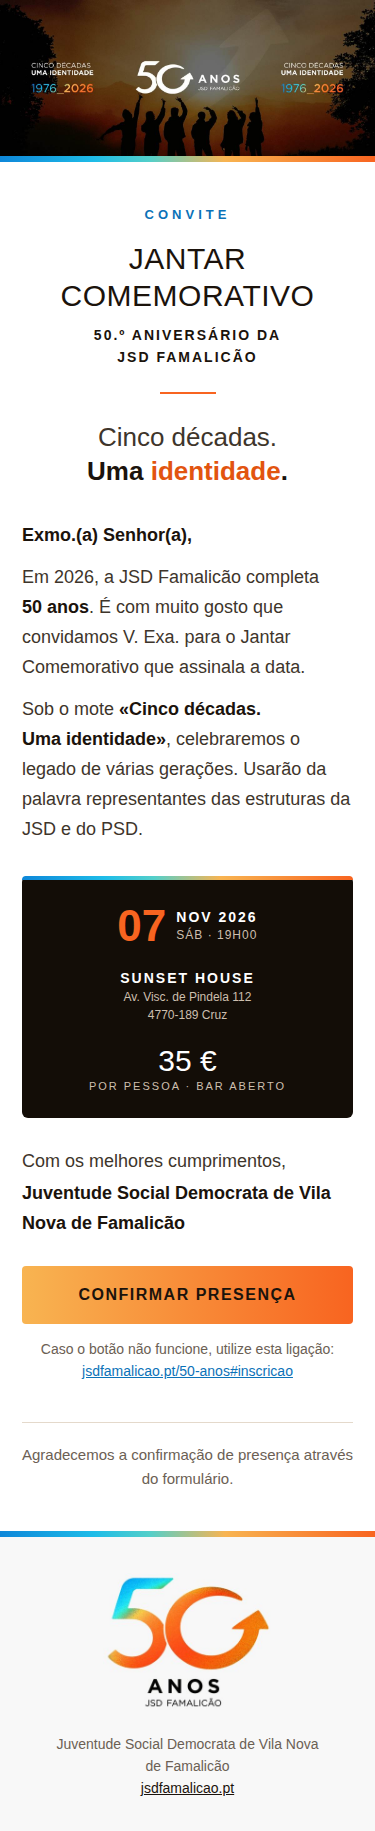
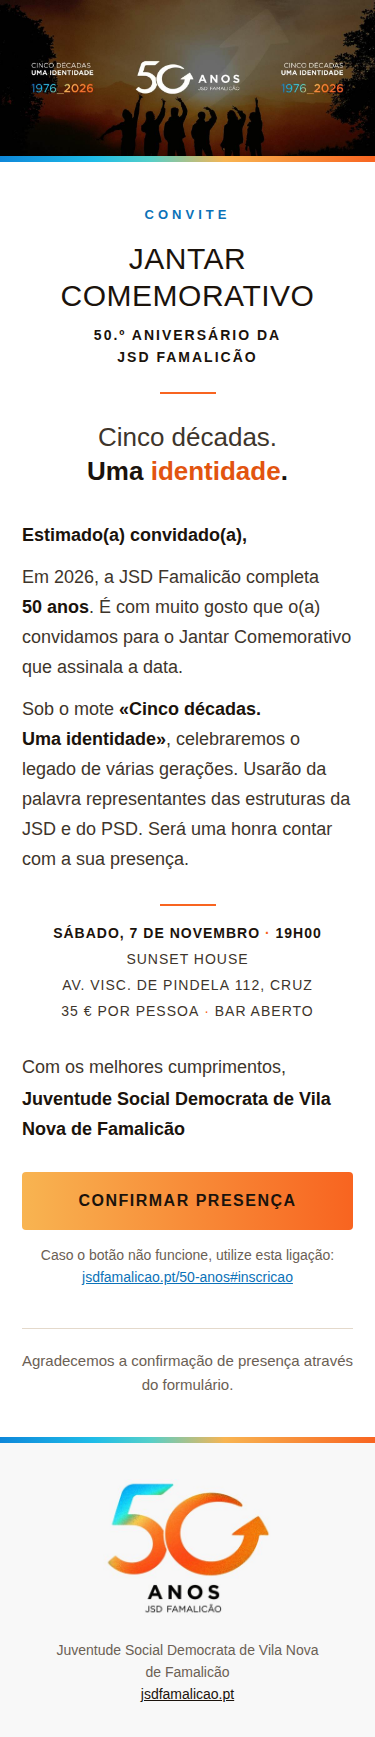
Email: v3/v4 com dados em linhas tipográficas e institucional menos formal
Claude-Session: https://claude.ai/code/session_015mwyiP4waEoG1anDPcCGSk

diff --git a/email/jsd-50-anos/v4-convite-institucional.html b/email/jsd-50-anos/v4-convite-institucional.html
@@ -26,6 +26,7 @@
       .btn-tabela  { width:100% !important; }
       .btn         { display:block !important; padding:19px 12px !important; font-size:16px !important; }
       .t-lead      { font-size:26px !important; line-height:34px !important; }
+      .t-dados-v   { font-size:14px !important; line-height:26px !important; letter-spacing:1px !important; }
     }
   </style>
 </head>
@@ -36,7 +37,7 @@
 <body style="margin:0; padding:0; background-color:#FFFFFF;">
 
   <div style="display:none; max-height:0; overflow:hidden; opacity:0; font-size:1px; line-height:1px; color:#FFFFFF;">
-    Cinco décadas. Uma identidade. A JSD Famalicão convida V. Exa. para o Jantar Comemorativo do seu 50.º Aniversário.
+    Cinco décadas. Uma identidade. A JSD Famalicão convida-o(a) para o Jantar Comemorativo do seu 50.º Aniversário.
     &#8199;&#847;&#8199;&#847;&#8199;&#847;&#8199;&#847;&#8199;&#847;&#8199;&#847;&#8199;&#847;&#8199;&#847;
   </div>
 
@@ -79,44 +80,23 @@
             <td class="px t-lead" align="center" style="padding:26px 24px 0px 24px; font-family:Montserrat,'Helvetica Neue',Helvetica,Arial,sans-serif; font-size:24px; line-height:32px; font-weight:300; color:#3E352B; text-align:center;">Cinco décadas.<br><strong style="font-weight:800; color:#1B130C;">Uma <span style="color:#E2540F;">identidade</span>.</strong></td>
           </tr>
           <tr>
-            <td class="px t-corpo" align="left" style="padding:32px 24px 0px 24px; font-family:Montserrat,'Helvetica Neue',Helvetica,Arial,sans-serif; font-size:16px; line-height:27px; font-weight:700; color:#1B130C; text-align:left;">Exmo.(a) Senhor(a),</td>
+            <td class="px t-corpo" align="left" style="padding:32px 24px 0px 24px; font-family:Montserrat,'Helvetica Neue',Helvetica,Arial,sans-serif; font-size:16px; line-height:27px; font-weight:700; color:#1B130C; text-align:left;">Estimado(a) convidado(a),</td>
           </tr>
           <tr>
-            <td class="px t-corpo" align="left" style="padding:12px 24px 0px 24px; font-family:Montserrat,'Helvetica Neue',Helvetica,Arial,sans-serif; font-size:16px; line-height:27px; color:#3E352B; text-align:left;">Em 2026, a JSD Famalicão completa <strong style="color:#1B130C;">50&nbsp;anos</strong>. É com muito gosto que convidamos V.&nbsp;Exa. para o Jantar Comemorativo que assinala a data.</td>
+            <td class="px t-corpo" align="left" style="padding:12px 24px 0px 24px; font-family:Montserrat,'Helvetica Neue',Helvetica,Arial,sans-serif; font-size:16px; line-height:27px; color:#3E352B; text-align:left;">Em 2026, a JSD Famalicão completa <strong style="color:#1B130C;">50&nbsp;anos</strong>. É com muito gosto que o(a) convidamos para o Jantar Comemorativo que assinala a data.</td>
           </tr>
           <tr>
-            <td class="px t-corpo" align="left" style="padding:12px 24px 0px 24px; font-family:Montserrat,'Helvetica Neue',Helvetica,Arial,sans-serif; font-size:16px; line-height:27px; color:#3E352B; text-align:left;">Sob o mote <strong style="color:#1B130C;">«Cinco décadas. Uma&nbsp;identidade»</strong>, celebraremos o legado de várias gerações. Usarão da palavra representantes das estruturas da JSD e do PSD.</td>
+            <td class="px t-corpo" align="left" style="padding:12px 24px 0px 24px; font-family:Montserrat,'Helvetica Neue',Helvetica,Arial,sans-serif; font-size:16px; line-height:27px; color:#3E352B; text-align:left;">Sob o mote <strong style="color:#1B130C;">«Cinco décadas. Uma&nbsp;identidade»</strong>, celebraremos o legado de várias gerações. Usarão da palavra representantes das estruturas da JSD e do PSD. Será uma honra contar com a sua presença.</td>
           </tr>
           <tr>
-            <td class="px" style="padding:32px 24px 0 24px;">
-              <table role="presentation" width="100%" cellpadding="0" cellspacing="0" border="0" bgcolor="#130D07" style="background-color:#130D07; border-radius:6px;">
-                <tr><td height="4" bgcolor="#F86420" style="height:4px; font-size:0; line-height:0; background-color:#F86420; background-image:linear-gradient(90deg,#0E87D9 0%,#1EBCE8 25%,#54CFC9 40%,#F8B451 60%,#F86420 100%); border-radius:6px 6px 0 0;">&nbsp;</td></tr>
-                <tr>
-                  <td align="center" style="padding:14px 8px; font-size:0; line-height:0; text-align:center;">
-                <div style="display:inline-block; width:100%; max-width:230px; vertical-align:middle;">
-                  <table role="presentation" width="100%" cellpadding="0" cellspacing="0" border="0"><tr>
-                    <td align="center" style="padding:10px 8px; font-family:Montserrat,'Helvetica Neue',Helvetica,Arial,sans-serif; text-align:center;"><table role="presentation" align="center" cellpadding="0" cellspacing="0" border="0"><tr>
-                      <td style="padding-right:10px; font-family:Montserrat,'Helvetica Neue',Helvetica,Arial,sans-serif; font-size:44px; line-height:44px; font-weight:800; color:#F86420;">07</td>
-                      <td align="left" style="font-family:Montserrat,'Helvetica Neue',Helvetica,Arial,sans-serif; text-align:left;">
-                        <div style="font-size:14px; line-height:18px; font-weight:800; letter-spacing:2px; color:#FFFFFF;">NOV 2026</div>
-                        <div style="font-size:12px; line-height:18px; letter-spacing:1px; color:#CDBFAE;">SÁB · 19H00</div>
-                      </td></tr></table></td>
-                  </tr></table>
-                </div>
-                <div style="display:inline-block; width:100%; max-width:230px; vertical-align:middle;">
-                  <table role="presentation" width="100%" cellpadding="0" cellspacing="0" border="0"><tr>
-                    <td align="center" style="padding:10px 8px; font-family:Montserrat,'Helvetica Neue',Helvetica,Arial,sans-serif; text-align:center;"><div style="font-size:14px; line-height:20px; font-weight:800; letter-spacing:2px; color:#FFFFFF;">SUNSET HOUSE</div><a href="https://www.google.com/maps/search/?api=1&query=Av.+Visconde+de+Pindela+112,+4770-189+Cruz" style="font-size:12px; line-height:18px; color:#CDBFAE; text-decoration:none;">Av. Visc. de Pindela 112<br>4770&#8209;189&nbsp;Cruz</a></td>
-                  </tr></table>
-                </div>
-                <div style="display:inline-block; width:100%; max-width:230px; vertical-align:middle;">
-                  <table role="presentation" width="100%" cellpadding="0" cellspacing="0" border="0"><tr>
-                    <td align="center" style="padding:10px 8px; font-family:Montserrat,'Helvetica Neue',Helvetica,Arial,sans-serif; text-align:center;"><div style="font-size:30px; line-height:34px; font-weight:300; color:#FFFFFF;">35&nbsp;€</div><div style="font-size:11px; line-height:16px; letter-spacing:2px; color:#CDBFAE;">POR PESSOA · BAR ABERTO</div></td>
-                  </tr></table>
-                </div>
-                  </td>
-                </tr>
+            <td align="center" style="padding:30px 24px 0px 24px;">
+              <table role="presentation" align="center" cellpadding="0" cellspacing="0" border="0">
+                <tr><td width="56" height="2" bgcolor="#F86420" style="width:56px; height:2px; background-color:#F86420; font-size:0; line-height:0;">&nbsp;</td></tr>
               </table>
             </td>
+          </tr>
+          <tr>
+            <td class="px t-dados-v" align="center" style="padding:14px 24px 0px 24px; font-family:Montserrat,'Helvetica Neue',Helvetica,Arial,sans-serif; font-size:13px; line-height:24px; letter-spacing:1.5px; text-transform:uppercase; color:#3E352B; text-align:center;"><span style="font-weight:700; color:#1B130C;">Sábado,&nbsp;7&nbsp;de&nbsp;novembro<span style="color:#F86420;">&nbsp;·&nbsp;</span>19h00</span><br><a href="https://www.google.com/maps/search/?api=1&query=Av.+Visconde+de+Pindela+112,+4770-189+Cruz" style="color:#3E352B; text-decoration:none;">Sunset House<br>Av.&nbsp;Visc.&nbsp;de&nbsp;Pindela&nbsp;112, Cruz</a><br>35&nbsp;€ por pessoa<span style="color:#F86420;">&nbsp;·&nbsp;</span>bar aberto</td>
           </tr>
           <tr>
             <td class="px t-corpo" align="left" style="padding:28px 24px 0px 24px; font-family:Montserrat,'Helvetica Neue',Helvetica,Arial,sans-serif; font-size:16px; line-height:27px; color:#3E352B; text-align:left;">Com os melhores cumprimentos,</td>

diff --git a/email/jsd-50-anos/v3-convite-geral.html b/email/jsd-50-anos/v3-convite-geral.html
@@ -26,6 +26,7 @@
       .btn-tabela  { width:100% !important; }
       .btn         { display:block !important; padding:19px 12px !important; font-size:16px !important; }
       .t-lead      { font-size:26px !important; line-height:34px !important; }
+      .t-dados-v   { font-size:14px !important; line-height:26px !important; letter-spacing:1px !important; }
     }
   </style>
 </head>
@@ -88,35 +89,14 @@
             <td class="px t-corpo" align="left" style="padding:12px 24px 0px 24px; font-family:Montserrat,'Helvetica Neue',Helvetica,Arial,sans-serif; font-size:16px; line-height:27px; color:#3E352B; text-align:left;">Junta-te a nós no Jantar Comemorativo, onde vão tomar da palavra representantes das estruturas da JSD e do PSD. Se fizeste parte desta história, <strong style="color:#1B130C;">esta mesa também é tua</strong>.</td>
           </tr>
           <tr>
-            <td class="px" style="padding:32px 24px 0 24px;">
-              <table role="presentation" width="100%" cellpadding="0" cellspacing="0" border="0" bgcolor="#130D07" style="background-color:#130D07; border-radius:6px;">
-                <tr><td height="4" bgcolor="#F86420" style="height:4px; font-size:0; line-height:0; background-color:#F86420; background-image:linear-gradient(90deg,#0E87D9 0%,#1EBCE8 25%,#54CFC9 40%,#F8B451 60%,#F86420 100%); border-radius:6px 6px 0 0;">&nbsp;</td></tr>
-                <tr>
-                  <td align="center" style="padding:14px 8px; font-size:0; line-height:0; text-align:center;">
-                <div style="display:inline-block; width:100%; max-width:230px; vertical-align:middle;">
-                  <table role="presentation" width="100%" cellpadding="0" cellspacing="0" border="0"><tr>
-                    <td align="center" style="padding:10px 8px; font-family:Montserrat,'Helvetica Neue',Helvetica,Arial,sans-serif; text-align:center;"><table role="presentation" align="center" cellpadding="0" cellspacing="0" border="0"><tr>
-                      <td style="padding-right:10px; font-family:Montserrat,'Helvetica Neue',Helvetica,Arial,sans-serif; font-size:44px; line-height:44px; font-weight:800; color:#F86420;">07</td>
-                      <td align="left" style="font-family:Montserrat,'Helvetica Neue',Helvetica,Arial,sans-serif; text-align:left;">
-                        <div style="font-size:14px; line-height:18px; font-weight:800; letter-spacing:2px; color:#FFFFFF;">NOV 2026</div>
-                        <div style="font-size:12px; line-height:18px; letter-spacing:1px; color:#CDBFAE;">SÁB · 19H00</div>
-                      </td></tr></table></td>
-                  </tr></table>
-                </div>
-                <div style="display:inline-block; width:100%; max-width:230px; vertical-align:middle;">
-                  <table role="presentation" width="100%" cellpadding="0" cellspacing="0" border="0"><tr>
-                    <td align="center" style="padding:10px 8px; font-family:Montserrat,'Helvetica Neue',Helvetica,Arial,sans-serif; text-align:center;"><div style="font-size:14px; line-height:20px; font-weight:800; letter-spacing:2px; color:#FFFFFF;">SUNSET HOUSE</div><a href="https://www.google.com/maps/search/?api=1&query=Av.+Visconde+de+Pindela+112,+4770-189+Cruz" style="font-size:12px; line-height:18px; color:#CDBFAE; text-decoration:none;">Av. Visc. de Pindela 112<br>4770&#8209;189&nbsp;Cruz</a></td>
-                  </tr></table>
-                </div>
-                <div style="display:inline-block; width:100%; max-width:230px; vertical-align:middle;">
-                  <table role="presentation" width="100%" cellpadding="0" cellspacing="0" border="0"><tr>
-                    <td align="center" style="padding:10px 8px; font-family:Montserrat,'Helvetica Neue',Helvetica,Arial,sans-serif; text-align:center;"><div style="font-size:30px; line-height:34px; font-weight:300; color:#FFFFFF;">35&nbsp;€</div><div style="font-size:11px; line-height:16px; letter-spacing:2px; color:#CDBFAE;">POR PESSOA · BAR ABERTO</div></td>
-                  </tr></table>
-                </div>
-                  </td>
-                </tr>
+            <td align="center" style="padding:30px 24px 0px 24px;">
+              <table role="presentation" align="center" cellpadding="0" cellspacing="0" border="0">
+                <tr><td width="56" height="2" bgcolor="#F86420" style="width:56px; height:2px; background-color:#F86420; font-size:0; line-height:0;">&nbsp;</td></tr>
               </table>
             </td>
+          </tr>
+          <tr>
+            <td class="px t-dados-v" align="center" style="padding:14px 24px 0px 24px; font-family:Montserrat,'Helvetica Neue',Helvetica,Arial,sans-serif; font-size:13px; line-height:24px; letter-spacing:1.5px; text-transform:uppercase; color:#3E352B; text-align:center;"><span style="font-weight:700; color:#1B130C;">Sábado,&nbsp;7&nbsp;de&nbsp;novembro<span style="color:#F86420;">&nbsp;·&nbsp;</span>19h00</span><br><a href="https://www.google.com/maps/search/?api=1&query=Av.+Visconde+de+Pindela+112,+4770-189+Cruz" style="color:#3E352B; text-decoration:none;">Sunset House<br>Av.&nbsp;Visc.&nbsp;de&nbsp;Pindela&nbsp;112, Cruz</a><br>35&nbsp;€ por pessoa<span style="color:#F86420;">&nbsp;·&nbsp;</span>bar aberto</td>
           </tr>
           <tr>
             <td class="px t-corpo" align="left" style="padding:28px 24px 0px 24px; font-family:Montserrat,'Helvetica Neue',Helvetica,Arial,sans-serif; font-size:16px; line-height:27px; color:#3E352B; text-align:left;">Contamos contigo!</td>

diff --git a/email/jsd-50-anos/src/gerar_v3_v4.py b/email/jsd-50-anos/src/gerar_v3_v4.py
@@ -1,4 +1,4 @@
-"""Gera a v3 (convite geral, trata por «tu») e a v4 (convite institucional, «V. Exa.») com o MESMO
+"""Gera a v3 (convite geral, trata por «tu») e a v4 (convite institucional, «Estimado(a) convidado(a)») com o MESMO
 layout intermédio e texto curto. Os dados do evento vão numa faixa escura compacta (componente gráfica).
 
 Layout intermédio: cabeçalho e slogan centrados, texto alinhado à esquerda (sem ser uma carta
@@ -12,7 +12,7 @@ from comum import *
 MUTED = '#6B6054'
 
 # ------------------------------------------------------------------ textos
-# Mesmo layout nos dois; texto curto. Geral trata por «tu», institucional por «V. Exa.».
+# Mesmo layout nos dois; texto curto. Geral trata por «tu», institucional ligeiramente formal («a sua presença»).
 CONVITES = {
     'v3-convite-geral.html': dict(
         titulo='50 Anos JSD Famalicão · Jantar Comemorativo',
@@ -32,11 +32,11 @@ CONVITES = {
     ),
     'v4-convite-institucional.html': dict(
         titulo='50 Anos JSD Famalicão · Convite Institucional',
-        preheader='Cinco décadas. Uma identidade. A JSD Famalicão convida V. Exa. para o Jantar Comemorativo do seu 50.º Aniversário.',
-        saudacao='Exmo.(a) Senhor(a),',
+        preheader='Cinco décadas. Uma identidade. A JSD Famalicão convida-o(a) para o Jantar Comemorativo do seu 50.º Aniversário.',
+        saudacao='Estimado(a) convidado(a),',
         paragrafos=[
-            f'Em 2026, a JSD Famalicão completa <strong {FORTE}>50&nbsp;anos</strong>. É com muito gosto que convidamos V.&nbsp;Exa. para o Jantar Comemorativo que assinala a data.',
-            f'Sob o mote <strong {FORTE}>«Cinco décadas. Uma&nbsp;identidade»</strong>, celebraremos o legado de várias gerações. Usarão da palavra representantes das estruturas da JSD e do PSD.',
+            f'Em 2026, a JSD Famalicão completa <strong {FORTE}>50&nbsp;anos</strong>. É com muito gosto que o(a) convidamos para o Jantar Comemorativo que assinala a data.',
+            f'Sob o mote <strong {FORTE}>«Cinco décadas. Uma&nbsp;identidade»</strong>, celebraremos o legado de várias gerações. Usarão da palavra representantes das estruturas da JSD e do PSD. Será uma honra contar com a sua presença.',
         ],
         fecho='Com os melhores cumprimentos,',
         assinatura='Juventude Social Democrata de Vila Nova de Famalicão',
@@ -49,7 +49,8 @@ CONVITES = {
 
 # ------------------------------------------------------------------ layout intermédio (único)
 CSS = '''
-      .t-lead      { font-size:26px !important; line-height:34px !important; }'''
+      .t-lead      { font-size:26px !important; line-height:34px !important; }
+      .t-dados-v   { font-size:14px !important; line-height:26px !important; letter-spacing:1px !important; }'''
 CLARO = '#CDBFAE'
 
 
@@ -63,31 +64,13 @@ def celula(conteudo):
 
 
 def dados():
-    data = f'''<table role="presentation" align="center" cellpadding="0" cellspacing="0" border="0"><tr>
-                      <td style="padding-right:10px; font-family:{FONT}; font-size:44px; line-height:44px; font-weight:800; color:#F86420;">07</td>
-                      <td align="left" style="font-family:{FONT}; text-align:left;">
-                        <div style="font-size:14px; line-height:18px; font-weight:800; letter-spacing:2px; color:#FFFFFF;">NOV 2026</div>
-                        <div style="font-size:12px; line-height:18px; letter-spacing:1px; color:{CLARO};">SÁB · 19H00</div>
-                      </td></tr></table>'''
-    local = (f'<div style="font-size:14px; line-height:20px; font-weight:800; letter-spacing:2px; color:#FFFFFF;">SUNSET HOUSE</div>'
-             f'<a href="{MAPA}" style="font-size:12px; line-height:18px; color:{CLARO}; text-decoration:none;">Av. Visc. de Pindela 112<br>4770&#8209;189&nbsp;Cruz</a>')
-    preco = (f'<div style="font-size:30px; line-height:34px; font-weight:300; color:#FFFFFF;">35&nbsp;€</div>'
-             f'<div style="font-size:11px; line-height:16px; letter-spacing:2px; color:{CLARO};">POR PESSOA · BAR ABERTO</div>')
-    return f'''
-          <tr>
-            <td class="px" style="padding:32px {LADO}px 0 {LADO}px;">
-              <table role="presentation" width="100%" cellpadding="0" cellspacing="0" border="0" bgcolor="#130D07" style="background-color:#130D07; border-radius:6px;">
-                <tr><td height="4" bgcolor="#F86420" style="height:4px; font-size:0; line-height:0; background-color:#F86420; background-image:{DEGRADE}; border-radius:6px 6px 0 0;">&nbsp;</td></tr>
-                <tr>
-                  <td align="center" style="padding:14px 8px; font-size:0; line-height:0; text-align:center;">
-                {celula(data)}
-                {celula(local)}
-                {celula(preco)}
-                  </td>
-                </tr>
-              </table>
-            </td>
-          </tr>'''
+    """Dados do evento em três linhas centradas, só tipografia (sem caixa nem faixa)."""
+    ponto = '<span style="color:#F86420;">&nbsp;·&nbsp;</span>'
+    return traco(30, 0) + linha(
+        f'<span style="font-weight:700; color:{ESCURO};">Sábado,&nbsp;7&nbsp;de&nbsp;novembro{ponto}19h00</span><br>'
+        f'<a href="{MAPA}" style="color:#3E352B; text-decoration:none;">Sunset House<br>Av.&nbsp;Visc.&nbsp;de&nbsp;Pindela&nbsp;112, Cruz</a><br>'
+        f'35&nbsp;€ por pessoa{ponto}bar aberto',
+        14, 0, 'font-size:13px; line-height:24px; letter-spacing:1.5px; text-transform:uppercase; color:#3E352B;', 'center', 't-dados-v')
 
 
 def convite(t):
